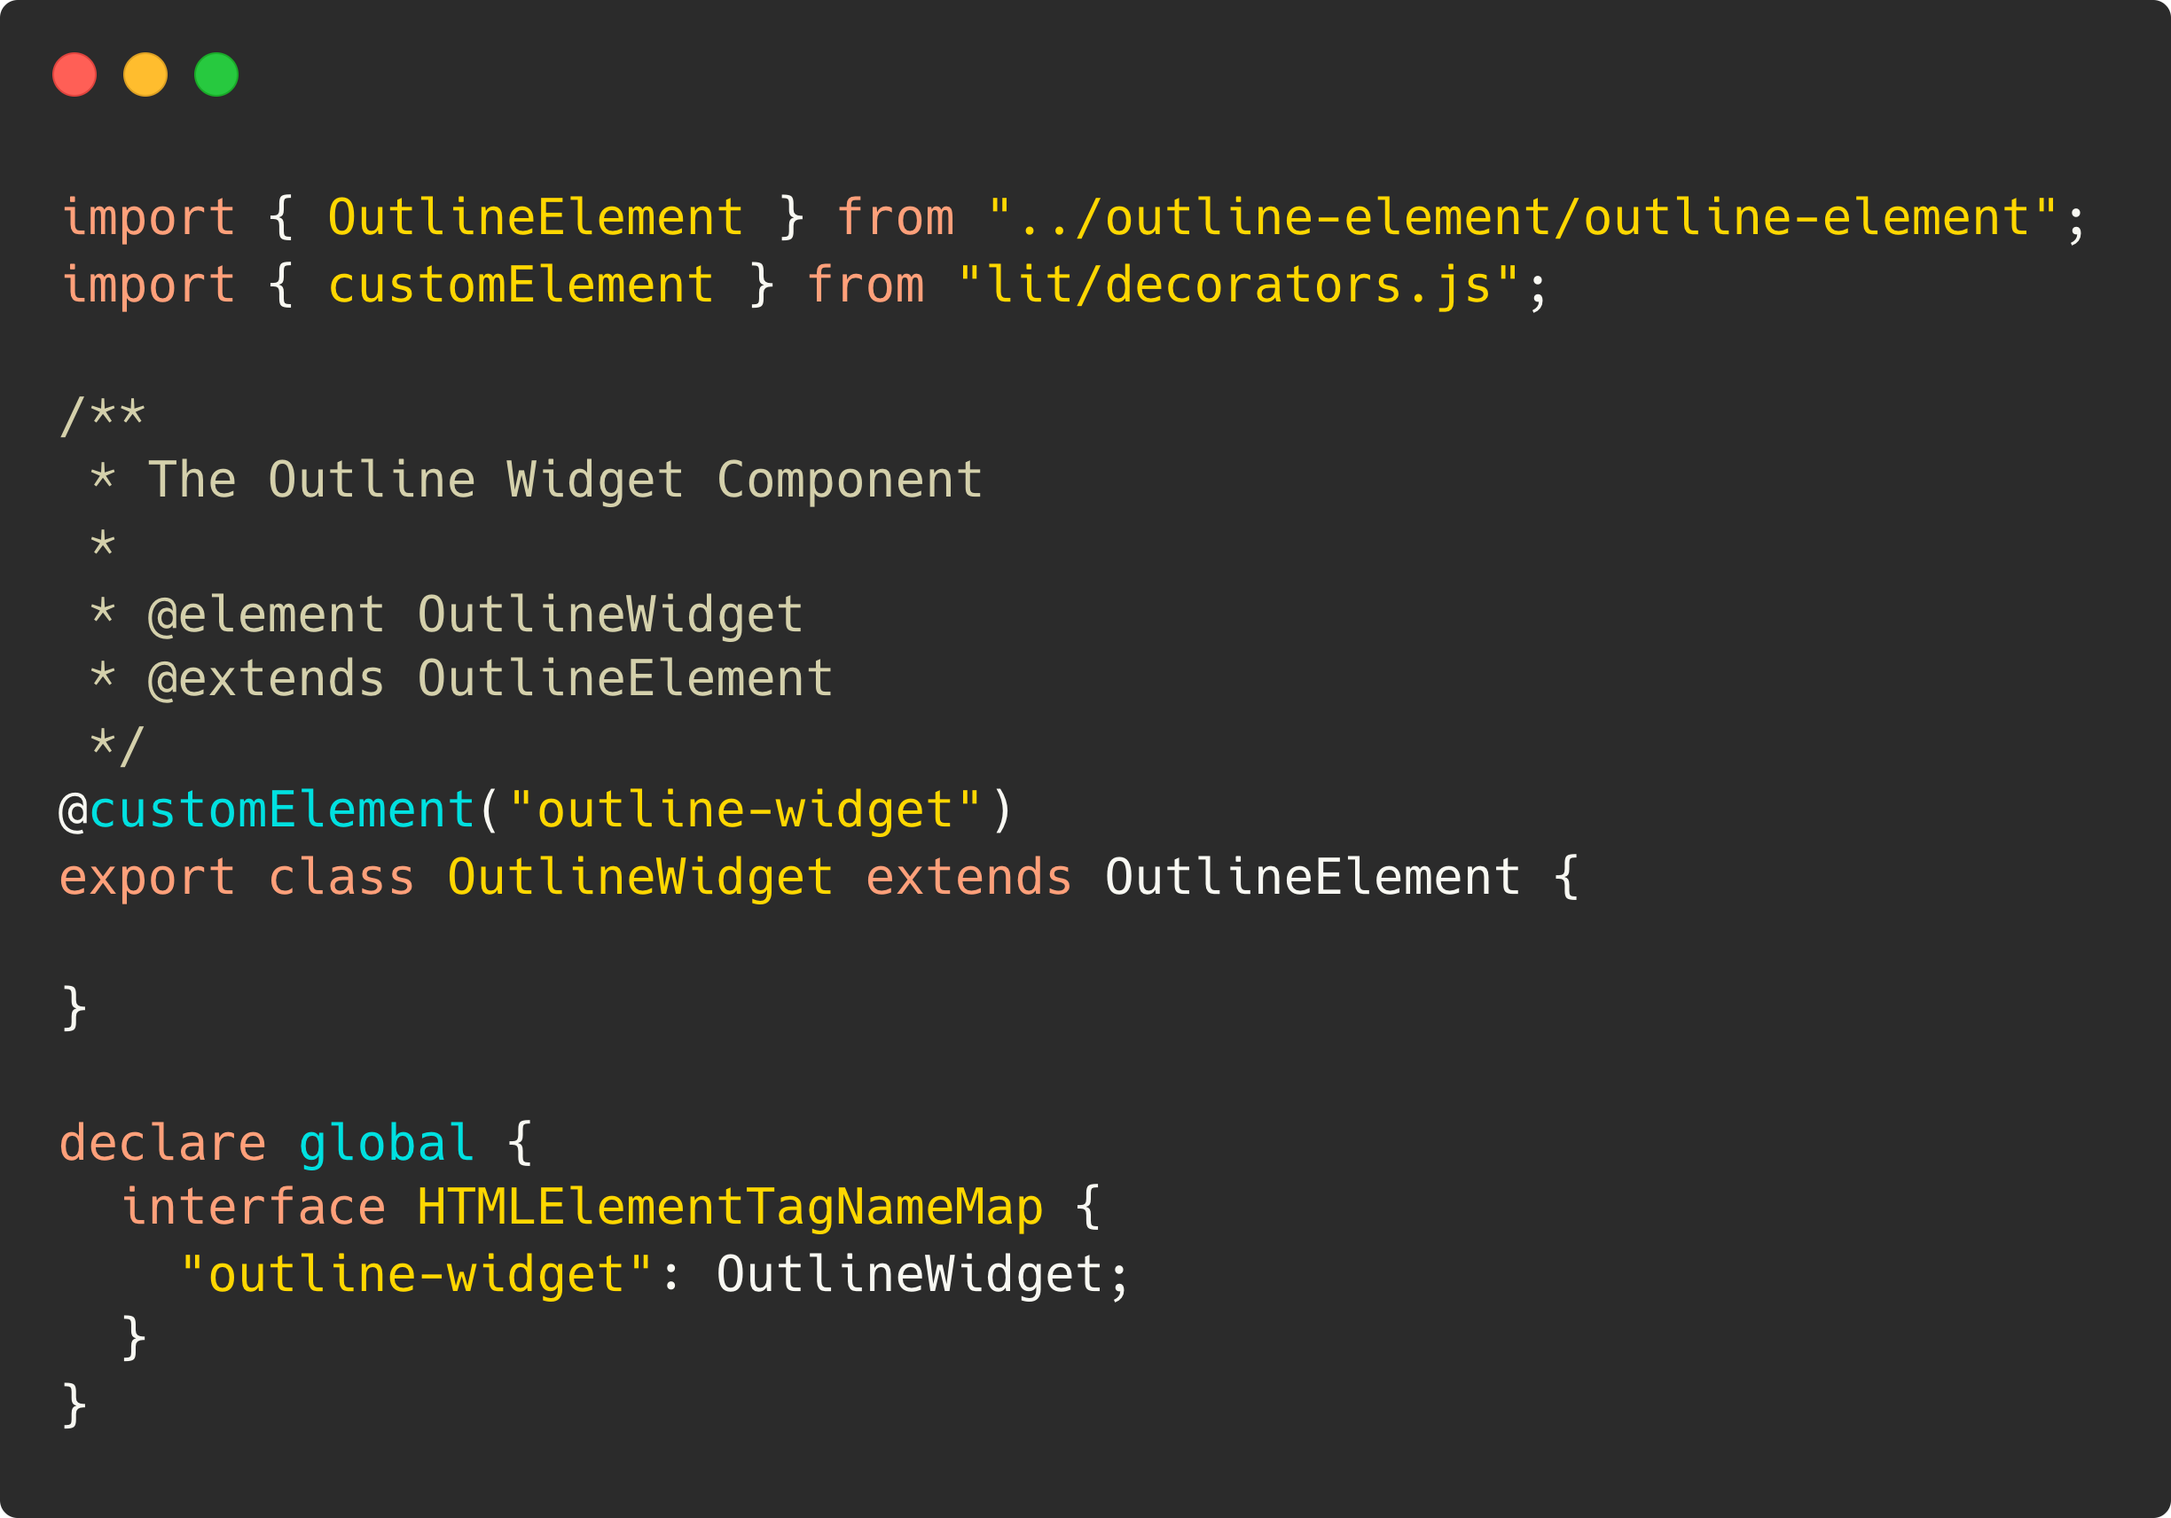
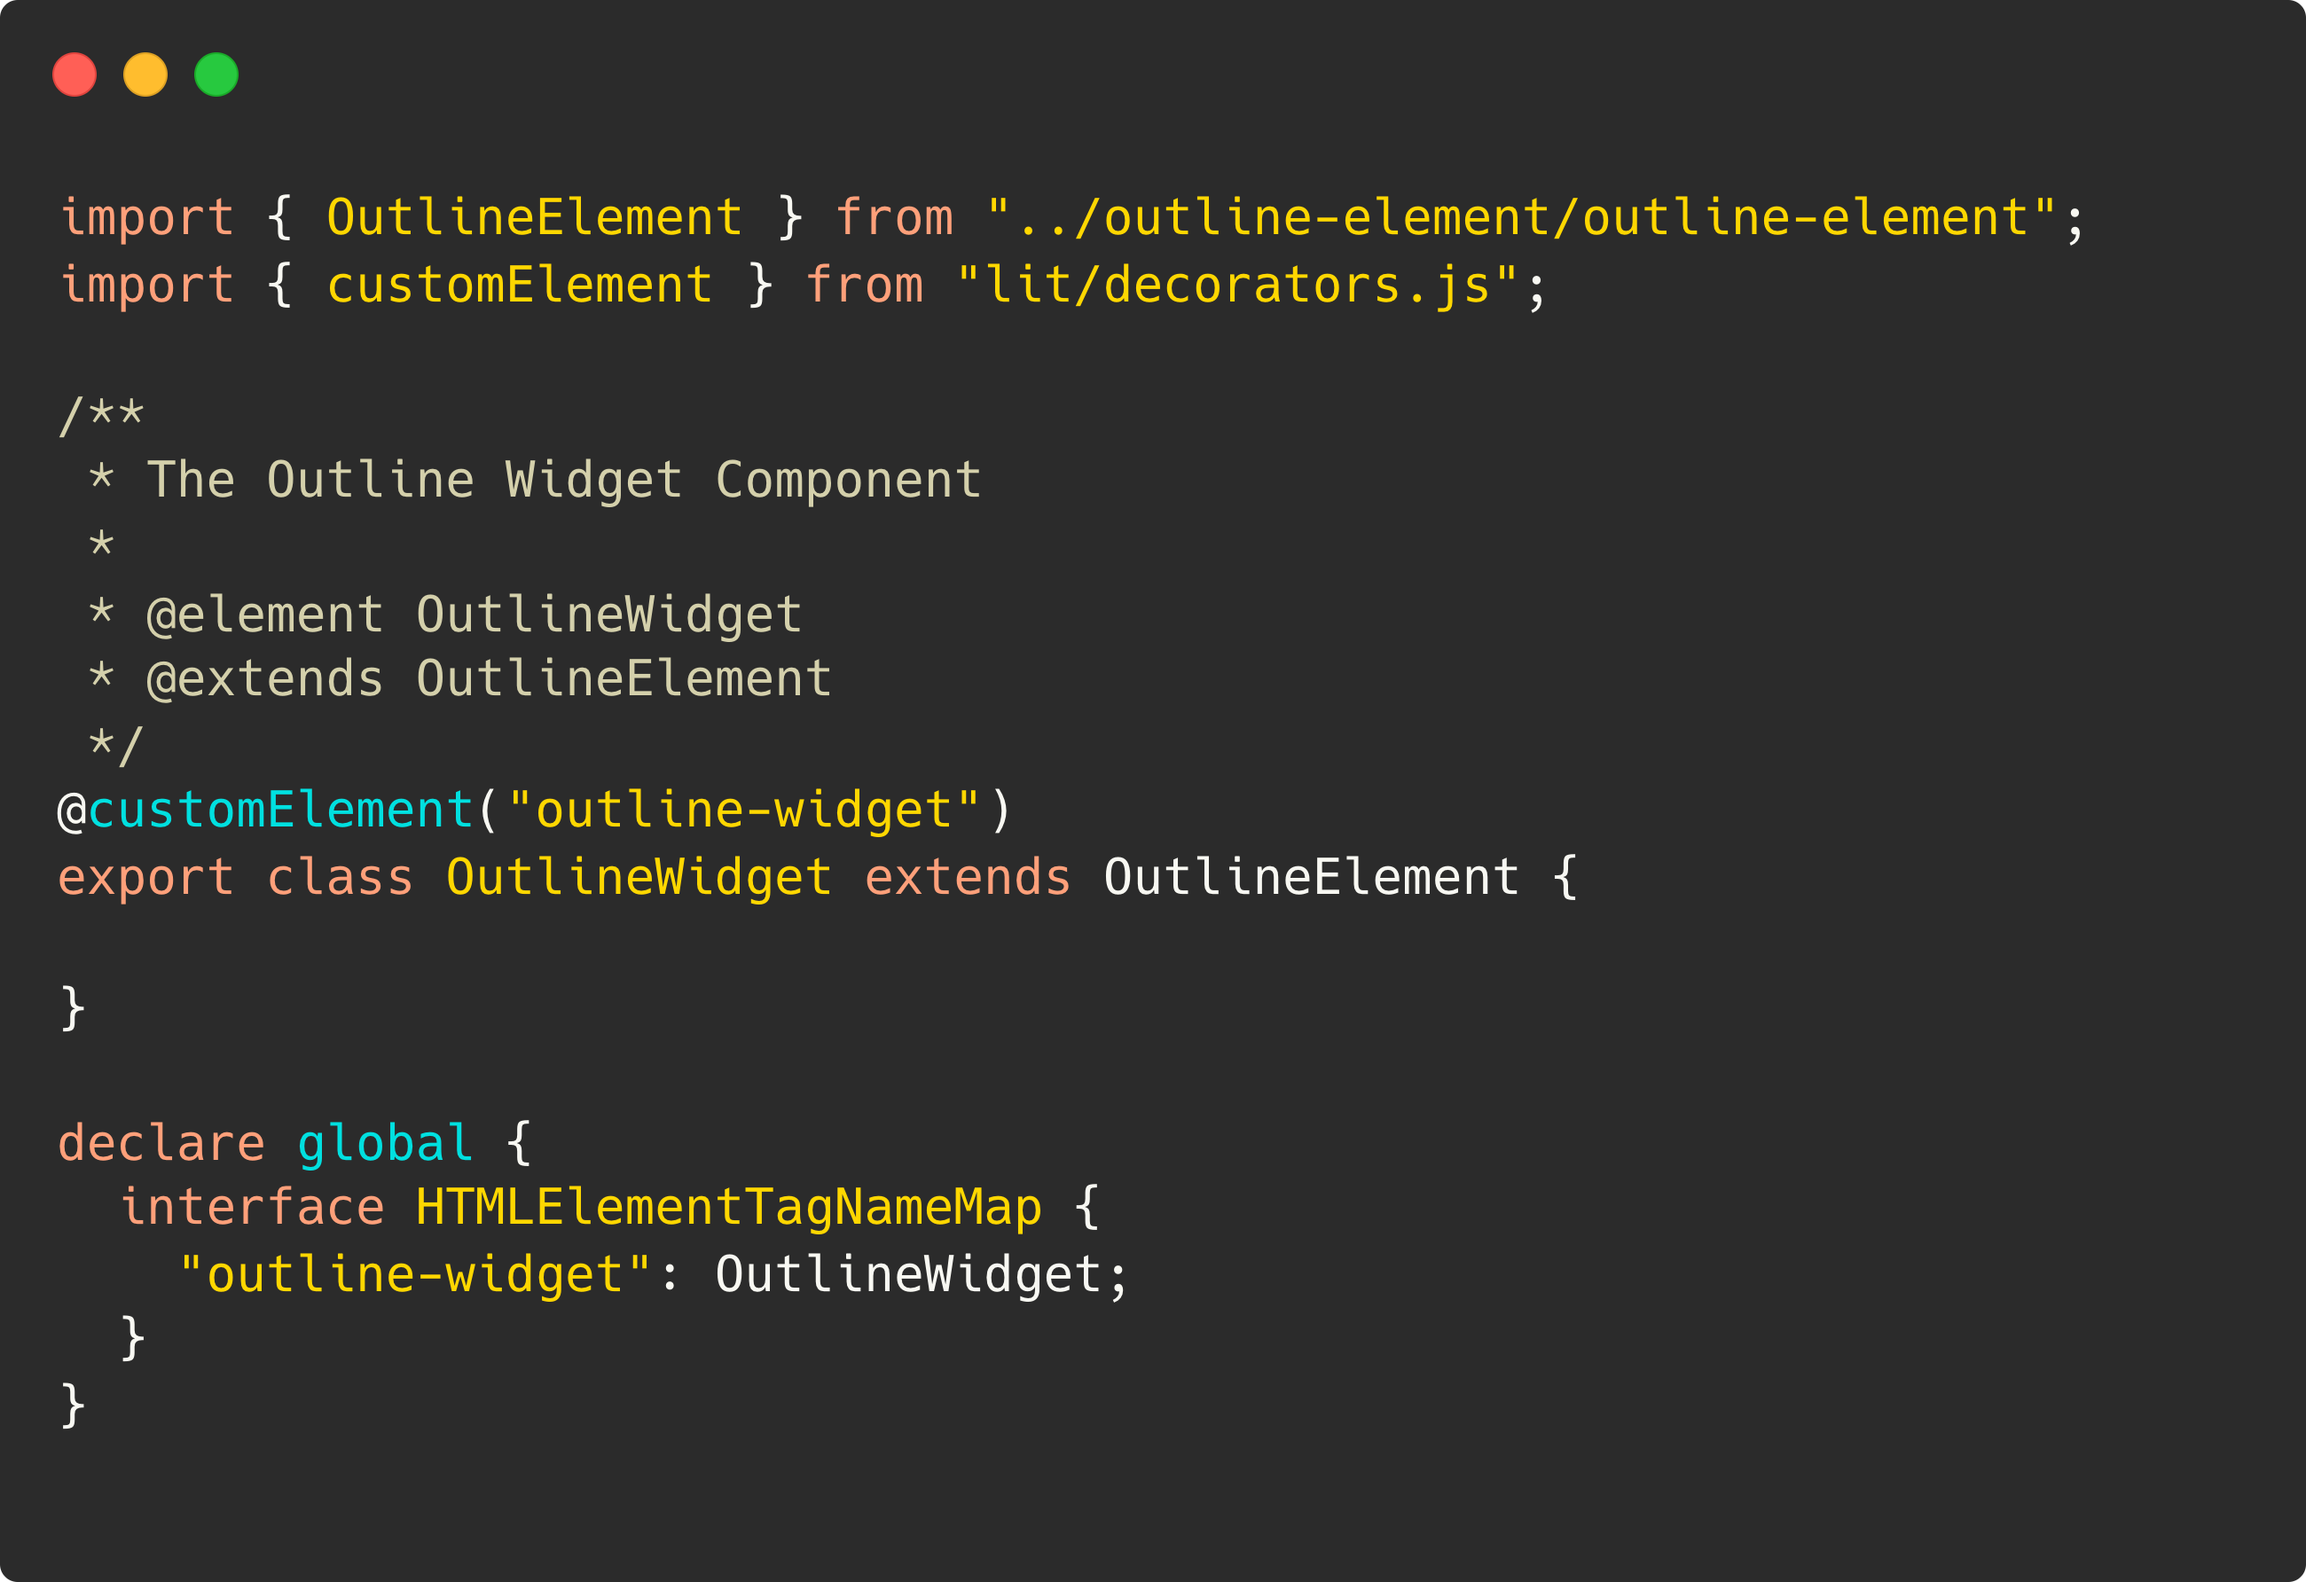
Updated images and links for snippets 1-5 based on updated carbon-config.json.

diff --git a/README.md b/README.md
@@ -6,12 +6,12 @@
 
 ## Code Snippets
 
-- [Snippet 1](https://carbon.now.sh/?bg=rgba%28171%2C184%2C195%2C0%29&t=a11y-dark&wt=none&l=application%2Ftypescript&width=1440&ds=false&dsyoff=20px&dsblur=68px&wc=true&wa=true&pv=0px&ph=0px&ln=false&fl=1&fm=Hack&fs=14px&lh=133%25&si=false&es=1x&wm=false&code=import%2520%257B%2520LitElement%2520%257D%2520from%2520%2522lit%2522%253B%250Aimport%2520%257B%2520customElement%2520%257D%2520from%2520%2522lit%252Fdecorators.js%2522%253B%250A%250A%252F**%250A%2520*%2520The%2520Outline%2520Widget%2520Component%250A%2520*%2520%250A%2520*%2520%2540element%2520OutlineWidget%250A%2520*%2520%2540extends%2520LitElement%250A%2520*%252F%250A%2540customElement%28%2522outline-widget%2522%29%250Aexport%2520class%2520OutlineWidget%2520extends%2520LitElement%2520%257B%250A%250A%257D%250A%250Adeclare%2520global%2520%257B%250A%2520%2520interface%2520HTMLElementTagNameMap%2520%257B%250A%2520%2520%2520%2520%2522outline-widget%2522%253A%2520OutlineWidget%253B%250A%2520%2520%257D%250A%257D)
+- [Snippet 1](https://carbon.now.sh/?bg=rgba%28171%2C184%2C195%2C0%29&t=a11y-dark&wt=none&l=application%2Ftypescript&width=650&ds=false&dsyoff=20px&dsblur=68px&wc=true&wa=false&pv=0px&ph=0px&ln=false&fl=1&fm=Hack&fs=14px&lh=133%25&si=false&es=4x&wm=false&code=import%2520%257B%2520LitElement%2520%257D%2520from%2520%2522lit%2522%253B%250Aimport%2520%257B%2520customElement%2520%257D%2520from%2520%2522lit%252Fdecorators.js%2522%253B%250A%250A%252F**%250A%2520*%2520The%2520Outline%2520Widget%2520Component%250A%2520*%2520%250A%2520*%2520%2540element%2520OutlineWidget%250A%2520*%2520%2540extends%2520LitElement%250A%2520*%252F%250A%2540customElement%28%2522outline-widget%2522%29%250Aexport%2520class%2520OutlineWidget%2520extends%2520LitElement%2520%257B%250A%250A%257D%250A%250Adeclare%2520global%2520%257B%250A%2520%2520interface%2520HTMLElementTagNameMap%2520%257B%250A%2520%2520%2520%2520%2522outline-widget%2522%253A%2520OutlineWidget%253B%250A%2520%2520%257D%250A%257D)
 
-- [Snippet 2)](https://carbon.now.sh/?bg=rgba%28171%2C184%2C195%2C0%29&t=a11y-dark&wt=none&l=application%2Ftypescript&width=1440&ds=false&dsyoff=20px&dsblur=68px&wc=true&wa=true&pv=0px&ph=0px&ln=false&fl=1&fm=Hack&fs=14px&lh=133%25&si=false&es=4x&wm=false&code=import%2520%257B%2520OutlineElement%2520%257D%2520from%2520%2522..%252Foutline-element%252Foutline-element%2522%253B%250Aimport%2520%257B%2520customElement%2520%257D%2520from%2520%2522lit%252Fdecorators.js%2522%253B%250A%250A%252F**%250A%2520*%2520The%2520Outline%2520Widget%2520Component%250A%2520*%2520%250A%2520*%2520%2540element%2520OutlineWidget%250A%2520*%2520%2540extends%2520OutlineElement%250A%2520*%252F%250A%2540customElement%28%2522outline-widget%2522%29%250Aexport%2520class%2520OutlineWidget%2520extends%2520OutlineElement%2520%257B%250A%250A%257D%250A%250Adeclare%2520global%2520%257B%250A%2520%2520interface%2520HTMLElementTagNameMap%2520%257B%250A%2520%2520%2520%2520%2522outline-widget%2522%253A%2520OutlineWidget%253B%250A%2520%2520%257D%250A%257D)
+- [Snippet 2)](https://carbon.now.sh/?bg=rgba%28171%2C184%2C195%2C0%29&t=a11y-dark&wt=none&l=application%2Ftypescript&width=650&ds=false&dsyoff=20px&dsblur=68px&wc=true&wa=false&pv=0px&ph=0px&ln=false&fl=1&fm=Hack&fs=14px&lh=133%25&si=false&es=4x&wm=false&code=import%2520%257B%2520OutlineElement%2520%257D%2520from%2520%2522..%252Foutline-element%252Foutline-element%2522%253B%250Aimport%2520%257B%2520customElement%2520%257D%2520from%2520%2522lit%252Fdecorators.js%2522%253B%250A%250A%252F**%250A%2520*%2520The%2520Outline%2520Widget%2520Component%250A%2520*%2520%250A%2520*%2520%2540element%2520OutlineWidget%250A%2520*%2520%2540extends%2520OutlineElement%250A%2520*%252F%250A%2540customElement%28%2522outline-widget%2522%29%250Aexport%2520class%2520OutlineWidget%2520extends%2520OutlineElement%2520%257B%250A%250A%257D%250A%250Adeclare%2520global%2520%257B%250A%2520%2520interface%2520HTMLElementTagNameMap%2520%257B%250A%2520%2520%2520%2520%2522outline-widget%2522%253A%2520OutlineWidget%253B%250A%2520%2520%257D%250A%257D)
 
-- [Snippet 3](https://carbon.now.sh/?bg=rgba%28171%2C184%2C195%2C0%29&t=a11y-dark&wt=none&l=application%2Ftypescript&width=1440&ds=false&dsyoff=20px&dsblur=68px&wc=true&wa=true&pv=0px&ph=0px&ln=false&fl=1&fm=Hack&fs=14px&lh=133%25&si=false&es=4x&wm=false&code=render%28%29%253A%2520TemplateResult%2520%257B%250A%2520%2520return%2520html%2560%250A%2520%2520%2520%2520%253Cdiv%253E%250A%2520%2520%2520%2520%2520%2520%253Cp%253ESimple%2520%2522hard%2520coded%2522%2520element%2520inside%2520the%2520component%2520ShadowDOM.%253C%252Fp%253E%250A%2520%2520%2520%2520%253C%252Fdiv%253E%250A%2520%2520%2560%250A%257D)
+- [Snippet 3](https://carbon.now.sh/?bg=rgba%28171%2C184%2C195%2C0%29&t=a11y-dark&wt=none&l=application%2Ftypescript&width=650&ds=false&dsyoff=20px&dsblur=68px&wc=true&wa=false&pv=0px&ph=0px&ln=false&fl=1&fm=Hack&fs=14px&lh=133%25&si=false&es=4x&wm=false&code=render%28%29%253A%2520TemplateResult%2520%257B%250A%2520%2520return%2520html%2560%250A%2520%2520%2520%2520%253Cdiv%253E%250A%2520%2520%2520%2520%2520%2520%253Cp%253ESimple%2520%2522hard%2520coded%2522%2520element%2520inside%2520the%2520component%2520ShadowDOM.%253C%252Fp%253E%250A%2520%2520%2520%2520%253C%252Fdiv%253E%250A%2520%2520%2560%250A%257D)
 
-- [Snippet 4](https://carbon.now.sh/?bg=rgba%28171%2C184%2C195%2C0%29&t=a11y-dark&wt=none&l=application%2Ftypescript&width=1440&ds=false&dsyoff=20px&dsblur=68px&wc=true&wa=true&pv=0px&ph=0px&ln=false&fl=1&fm=Hack&fs=14px&lh=133%25&si=false&es=4x&wm=false&code=%252F**%250A%2520*%2520The%2520Outline%2520Link%2520component%250A%2520*%2520%250A%2520*%2520%2540element%2520OutlineLink%250A%2520*%2520%2540extends%2520OutlineElement%250A%2520*%2520%2540slot%2520-%2520The%2520default%252C%2520and%2520only%2520slot%2520for%2520this%2520element.%250A%2520*%252F%250A%2540customElement%28%27outline-link%27%29%250Aexport%2520class%2520OutlineLink%2520extends%2520OutlineElement%2520%257B%250A%250A%2520%2520render%28%29%253A%2520TemplateResult%2520%257B%250A%2520%2520%2520%2520return%2520html%2560%2524%257Bthis.linkHref%250A%2520%2520%2520%2520%2520%2520%253F%2520html%2560%2520%253Ca%250A%2520%2520%2520%2520%2520%2520%2520%2520%2520%2520href%253D%2524%257Bthis.linkHref%257D%250A%2520%2520%2520%2520%2520%2520%2520%2520%2520%2520rel%253D%2522%2524%257BifDefined%28this.linkRel%29%257D%2522%250A%2520%2520%2520%2520%2520%2520%2520%2520%2520%2520target%253D%2522%2524%257BifDefined%28this.linkTarget%29%257D%2522%250A%2520%2520%2520%2520%2520%2520%2520%2520%253E%250A%2520%2520%2520%2520%2520%2520%2520%2520%2520%2520%2524%257Bthis.linkText%2520%253F%2520html%2560%2524%257Bthis.linkText%257D%2560%2520%253A%2520html%2560%253Cslot%253E%253C%252Fslot%253E%2560%257D%250A%2520%2520%2520%2520%2520%2520%2520%2520%253C%252Fa%253E%2560%250A%2520%2520%2520%2520%2520%2520%253A%2520html%2560%253Cslot%253E%253C%252Fslot%253E%2560%257D%2560%253B%250A%2520%2520%257D%250A%257D%250A%250Adeclare%2520global%2520%257B%250A%2520%2520interface%2520HTMLElementTagNameMap%2520%257B%250A%2520%2520%2520%2520%27outline-link%27%253A%2520OutlineLink%253B%250A%2520%2520%257D%250A%257D)
+- [Snippet 4](https://carbon.now.sh/?bg=rgba%28171%2C184%2C195%2C0%29&t=a11y-dark&wt=none&l=application%2Ftypescript&width=650&ds=false&dsyoff=20px&dsblur=68px&wc=true&wa=false&pv=0px&ph=0px&ln=false&fl=1&fm=Hack&fs=14px&lh=133%25&si=false&es=4x&wm=false&code=%252F**%250A%2520*%2520The%2520Outline%2520%2520Link%2520component%250A%2520*%2520%2540element%2520OutlineLink%250A%2520*%2520%2540extends%2520OutlineElement%250A%2520*%2520%2540slot%2520-%2520The%2520default%252C%2520and%2520only%2520slot%2520for%2520this%2520element.%250A%2520*%252F%250A%2540customElement%28%27outline-link%27%29%250Aexport%2520class%2520OutlineLink%2520extends%2520OutlineElement%2520%257B%250A%250A%2520%2520render%28%29%253A%2520TemplateResult%2520%257B%250A%2520%2520%2520%2520return%2520html%2560%2524%257Bthis.linkHref%250A%2520%2520%2520%2520%2520%2520%253F%2520html%2560%2520%253Ca%250A%2520%2520%2520%2520%2520%2520%2520%2520%2520%2520href%253D%2524%257Bthis.linkHref%257D%250A%2520%2520%2520%2520%2520%2520%2520%2520%2520%2520rel%253D%2522%2524%257BifDefined%28this.linkRel%29%257D%2522%250A%2520%2520%2520%2520%2520%2520%2520%2520%2520%2520target%253D%2522%2524%257BifDefined%28this.linkTarget%29%257D%2522%250A%2520%2520%2520%2520%2520%2520%2520%2520%253E%250A%2520%2520%2520%2520%2520%2520%2520%2520%2520%2520%2524%257Bthis.linkText%2520%253F%2520html%2560%2524%257Bthis.linkText%257D%2560%2520%253A%2520html%2560%253Cslot%253E%253C%252Fslot%253E%2560%257D%250A%2520%2520%2520%2520%2520%2520%2520%2520%253C%252Fa%253E%2560%250A%2520%2520%2520%2520%2520%2520%253A%2520html%2560%253Cslot%253E%253C%252Fslot%253E%2560%257D%2560%253B%250A%2520%2520%257D%250A%257D%250A%250Adeclare%2520global%2520%257B%250A%2520%2520interface%2520HTMLElementTagNameMap%2520%257B%250A%2520%2520%2520%2520%27outline-link%27%253A%2520OutlineLink%253B%250A%2520%2520%257D%250A%257D)
 
-- [Snippet 5](https://carbon.now.sh/?bg=rgba%28171%2C184%2C195%2C0%29&t=a11y-dark&wt=none&l=application%2Ftypescript&width=1440&ds=false&dsyoff=20px&dsblur=68px&wc=true&wa=true&pv=0px&ph=0px&ln=false&fl=1&fm=Hack&fs=14px&lh=133%25&si=false&es=4x&wm=false&code=render%28%29%253A%2520TemplateResult%2520%257B%250A%2520%2520return%2520html%2560%2524%257Bthis.linkHref%2520%253F%2520html%2560%2560%2520%253A%2520html%2560%2560%257D%2560%253B%250A%257D%250A)
+- [Snippet 5](https://carbon.now.sh/?bg=rgba%28171%2C184%2C195%2C0%29&t=a11y-dark&wt=none&l=application%2Ftypescript&width=650&ds=false&dsyoff=20px&dsblur=68px&wc=true&wa=false&pv=0px&ph=0px&ln=false&fl=1&fm=Hack&fs=14px&lh=133%25&si=false&es=4x&wm=false&code=render%28%29%253A%2520TemplateResult%2520%257B%250A%2520%2520return%2520html%2560%2524%257Bthis.linkHref%2520%253F%2520html%2560%2560%2520%253A%2520html%2560%2560%257D%2560%253B%250A%257D)
